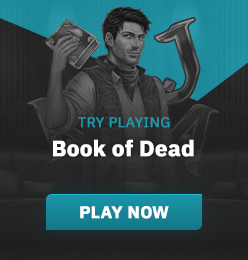
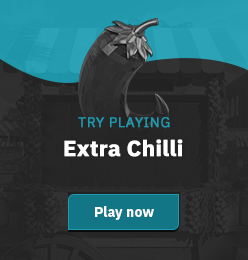
Add 'Extra Chilli' game promotion

diff --git a/src/views/casino/CasinoPromotionalItem.vue b/src/views/casino/CasinoPromotionalItem.vue
@@ -1,8 +1,24 @@
 <template>
   <b-row no-gutters>
-    <b-col class="promotional-block"/>
+    <b-col
+      class="promotional-block"
+      @click="pushGame"/>
   </b-row>
 </template>
+
+<script>
+export default {
+  methods: {
+    pushGame () {
+      this.$router.push({ name: 'casino-game',
+        params: { category: 'slots',
+          playItemSlug: 'extra-chilli-bigtimegaming'
+        }
+      })
+    }
+  }
+}
+</script>
 
 <style lang="scss"
        scoped>
@@ -10,6 +26,7 @@
         height: 259px;
         border-radius: 4px;
         box-shadow: 0 0 10px 2px #101010;
-        background-image: url(#{'~@/assets/images/promotional/arcanebet-casino-page-small-banner.png'});
+        background-image:
+                url(#{'~@/assets/images/promotional/arcanebet-casino-page-small-banner.png'});
     }
 </style>
